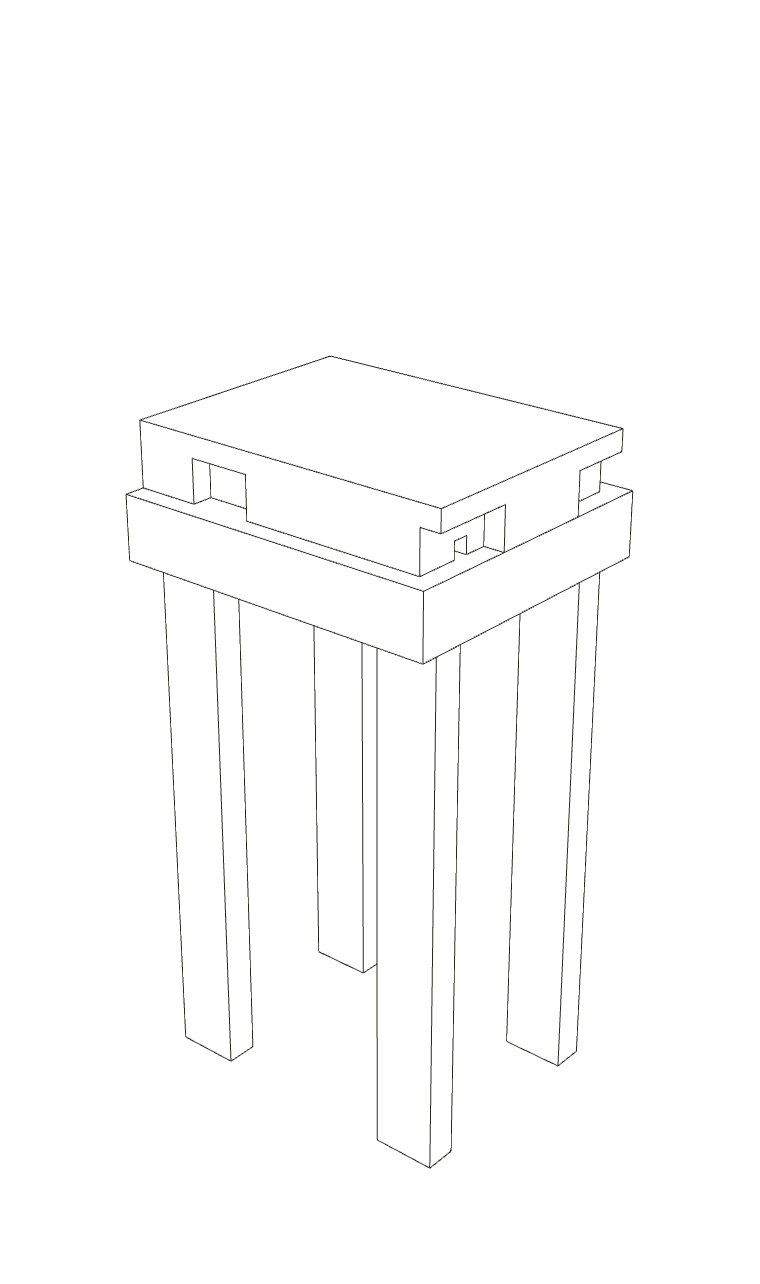
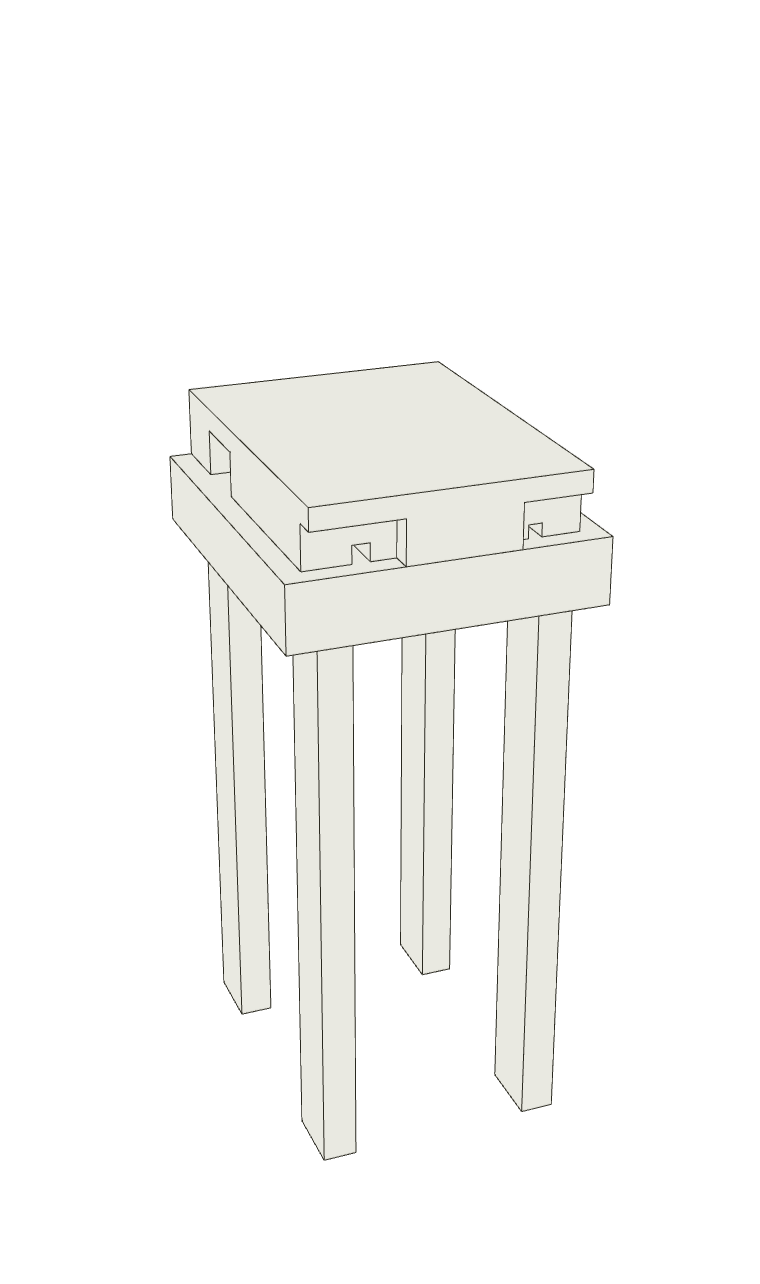
Stop the plates filling white, square up the front, close the gaps I flagged
The white fill was mine, from the commit that made the occluder follow
plateWhite so the printed sheet stopped rendering grey silhouettes. The
hero plates are captured with alpha and composited onto the page, so an
occluder painted white put a white slab behind every face. It now tracks
what the drawing will actually sit on: white for the sheet, paper when
plateAlpha says it is going onto the page.

The builder was still opening on the old face because I never rebuilt the
bundle it embeds. build_landing.mjs reads viewer/dist/builder.inline.html,
which comes from build:artifact, and I had only been running build:viewer
-- so the site had the turned camera and the artifact had a stale copy.
Both are rebuilt here.

The angle moves from a 45-degree three-quarter to about 21 degrees off the
front normal, so the designed face reads as a front rather than as one of
two equal sides.

And the two things the DXF work surfaced:

The cut list was quoting footprints off the display meshes, which ship one
shape per letter. Production cuts H 140 deep as a storey and 150 as a
roof, so the sheet was telling someone to buy stock the DXF would then cut
past. Footprints now come from the cutting library, keyed by the same
variant digits the export string already carries.

And selecting plain fronts gets a warning on the sheet. There is one set
of storey profiles in the cutting library, the patterned ones, and that is
what the DXF cuts; nothing in the production files corresponds to the
[…]

Changed region(s): [[0.1816, 0.2804, 0.8171, 0.9034], [0.1816, 0.3115, 0.2118, 0.3427]]

diff --git a/viewer/src/main.js b/viewer/src/main.js
@@ -282,7 +282,21 @@ async function buildPackHtml() {
   // the DXF made it into that folder.
   const library = await toolpathLibrary();
   const dxf = library ? buildDxf(library, { id, exportString: gh }) : null;
-  const sizes = state.stack.map((l) => index.storeys[l][state.variant].size_mm);
+  /* Footprints come from the cutting library where it has an opinion. The
+     display meshes ship one shape per letter, but production cuts H 140 deep
+     as a storey and 150 as a roof, so a cut list read off the meshes told
+     someone to buy stock the DXF then cut past. The export string already
+     encodes which production variant each storey is -- 2 topmost, 1 second
+     from top under a fixed mounting, 0 otherwise -- so the digits in it are
+     the lookup key. */
+  const variantDigits = gh.split(',').slice(1).map((f) => f.slice(-1));
+  const partFor = (letter, i) => (library
+    ? library.parts[letter + (variantDigits[i] || '0')] : null);
+  const footprint = (letter, i) => {
+    const part = partFor(letter, i);
+    return (part && part.size_mm) || index.storeys[letter][state.variant].size_mm;
+  };
+  const sizes = state.stack.map((l, i) => footprint(l, i));
   const stackMm = Math.round(sizes.reduce((t, s) => t + s[2], 0));
   const overallMm = Math.round(stackHeight() + liftMm());
   const width = Math.max(...sizes.map((s) => s[0]));
@@ -296,7 +310,7 @@ async function buildPackHtml() {
      120 × 160 × 30, and what separates an A from an M is the profile. */
   const cell = (art) => (art ? `<img src="${art}" alt="" />` : '');
   const rows = state.stack.map((letter, i) => {
-    const size = index.storeys[letter][state.variant].size_mm;
+    const size = footprint(letter, i);
     return `<tr>
       <td class="n">${String(i + 1).padStart(2, '0')}</td>
       <td class="thumb">${cell(plates[i])}</td>
@@ -446,6 +460,11 @@ p { margin:0 0 3mm; }
 
   <div class="cols">
     <div>
+      ${state.variant === 'b' && dxf ? `<div class="warn"><b>Plain fronts are a
+        preview.</b> The cutting library holds one set of storey profiles, the
+        patterned ones, and that is what the DXF here cuts. Nothing in the
+        original production files corresponds to the plain option, so a
+        maker space cannot make it from this folder.</div>` : ''}
       <h2>What to hand your maker space</h2>
       <p><b>Email them the whole folder this sheet came in.</b> A maker space is an open
         workshop where you pay per visit or hold a membership; most will do this with you

diff --git a/viewer/src/scene.js b/viewer/src/scene.js
@@ -72,7 +72,7 @@ export class Stage {
     this.scene.background = new THREE.Color(BACKDROP.timber);
 
     this.camera = new THREE.PerspectiveCamera(35, 1, 0.01, 100);
-    this.camera.position.set(0.52, 0.3, -0.42);
+    this.camera.position.set(0.26, 0.3, -0.64);
 
     this.controls = new OrbitControls(this.camera, canvas);
     this.controls.enableDamping = true;
@@ -281,10 +281,13 @@ export class Stage {
     this.scene.background = this.plateAlpha ? null
       : new THREE.Color(this.plateWhite ? '#ffffff' : BACKDROP[mode]);
     /* The occluder's whole job is to hide the edges behind a face, which it
-       can only do by being the same colour as what it sits on. Left at the
-       on-screen bone while a plate renders on white, every part came out as a
-       grey silhouette on the printed sheet instead of a line drawing. */
-    this.occluder().color.set(this.plateWhite ? '#ffffff' : BACKDROP.drawing);
+       can only do by being the same colour as whatever the drawing ends up
+       sitting on. On the printed sheet that is white; composited onto the page
+       -- which is what plateAlpha means -- it is the paper, and painting those
+       plates white filled every shape with a white slab over the background. */
+    this.occluder().color.set(
+      this.plateWhite && !this.plateAlpha ? '#ffffff' : BACKDROP.drawing,
+    );
     this.shadowFloor.visible = mode === 'timber';
     for (const child of this.root.children) {
       if (child.isLineSegments) {
@@ -620,9 +623,9 @@ export class Stage {
        around. */
     const target = this.controls.target;
     this.camera.position.set(
-      target.x + radius * 0.5 * distanceScale,
+      target.x + radius * 0.24 * distanceScale,
       target.y + radius * 0.3 * distanceScale,
-      target.z - radius * 0.42 * distanceScale,
+      target.z - radius * 0.62 * distanceScale,
     );
     this.controls.update();
   }
